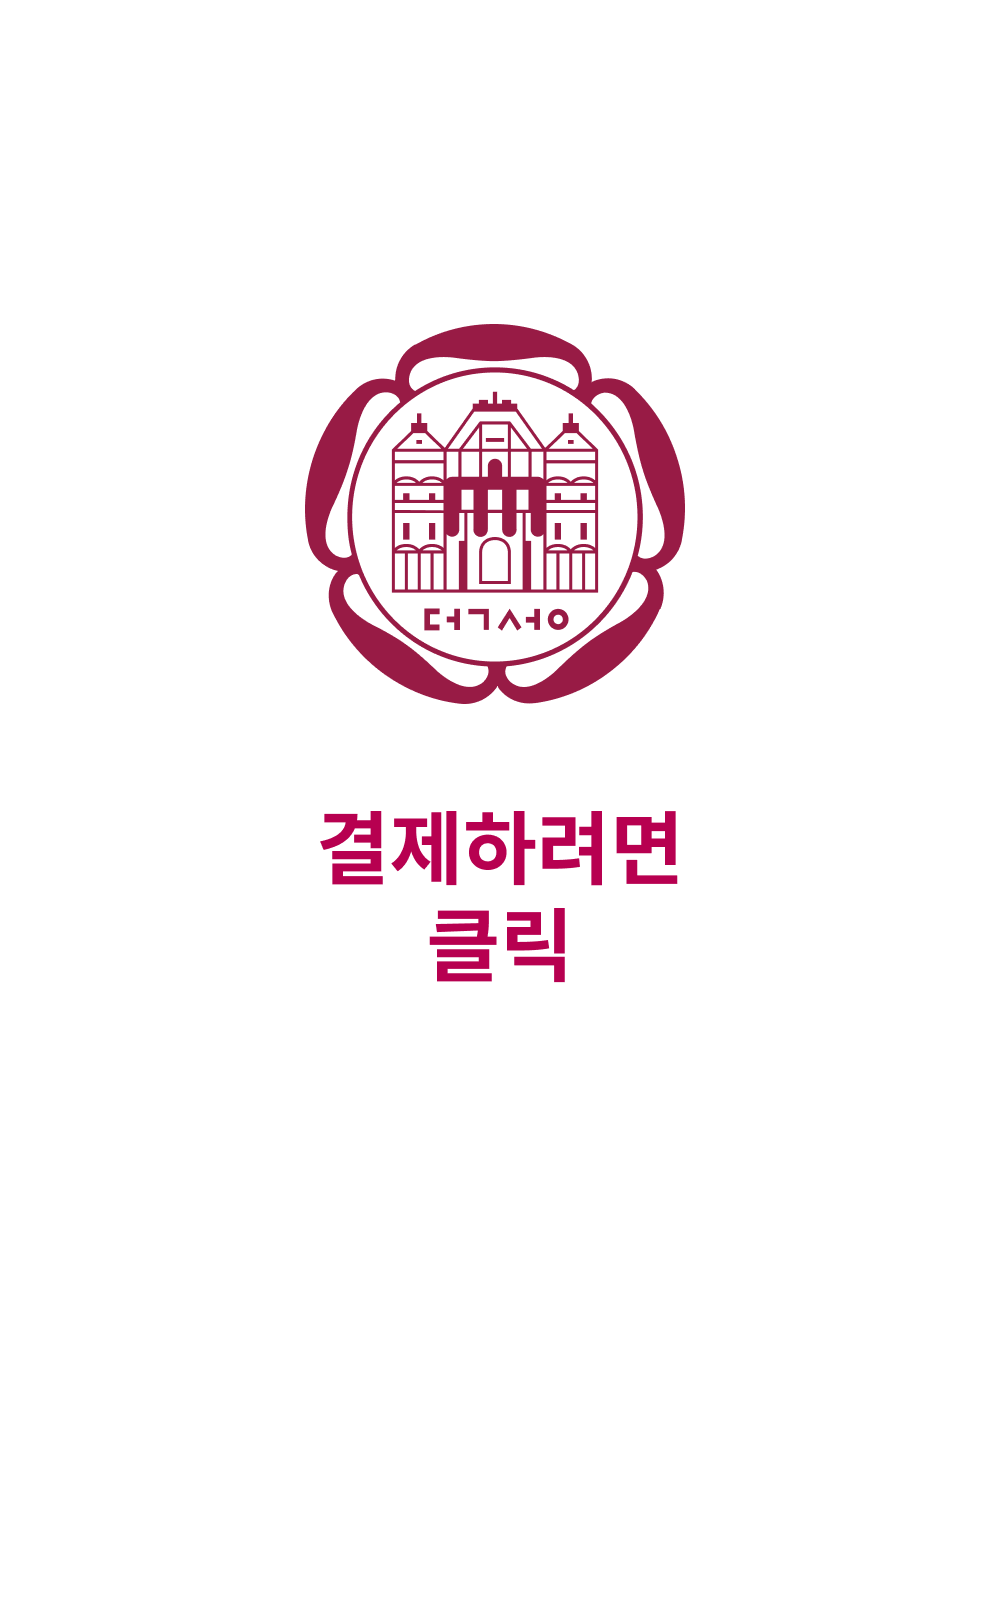
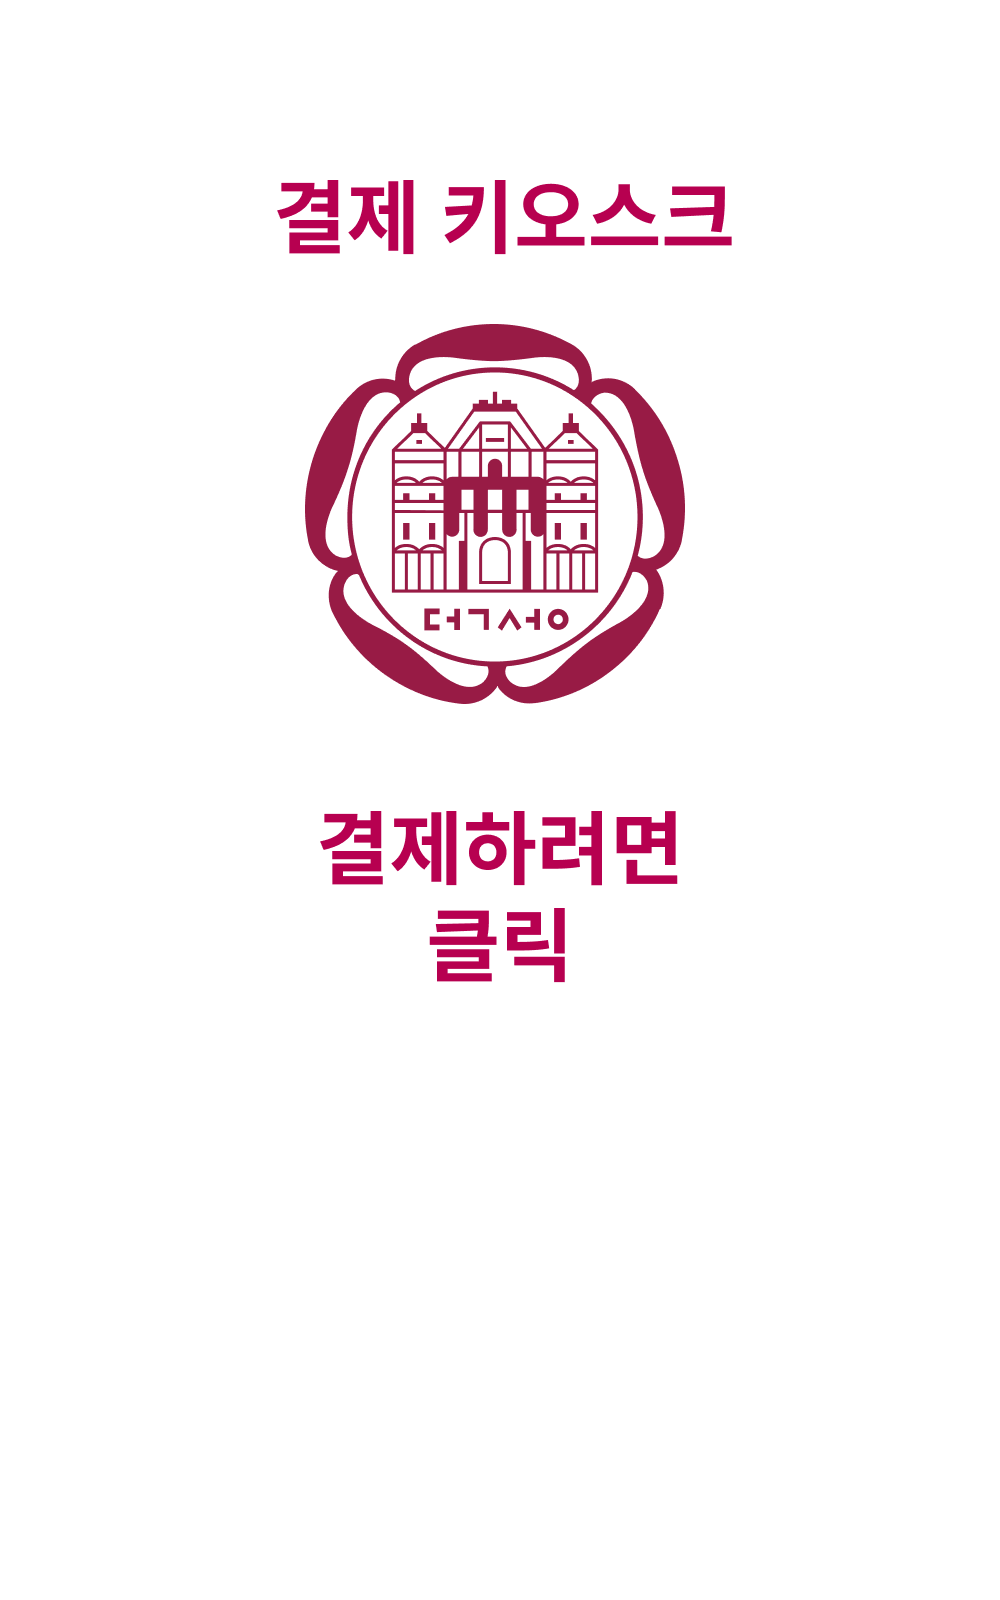
startScreen 키오스크 명칭 추가 & 원 글씨 추가

Changed region(s): [[0.279, 0.0938, 0.744, 0.1562]]

diff --git a/templates/billScreen.html b/templates/billScreen.html
@@ -21,14 +21,14 @@
                     <center>{{ item.quantity }}</center>
                 </div>
                 <div class="price1">
-                    {{ item.price }}
+                    {{ item.price }}원
                 </div>
             </div>
             {% endfor %}
             <div class="h-split"></div>
             <div class="totalprice">
                 <div class="totalprice_title" style="float: left";><b>주문합계</b></div>
-                <div class="totalprice_price" style="float: right;"><b>{{ total }}</b></div>
+                <div class="totalprice_price" style="float: right;"><b>{{ total }}원</b></div>
                 <div style="clear: both;"></div>
             </div>
         </div>

diff --git a/templates/paymentScreen.html b/templates/paymentScreen.html
@@ -22,7 +22,7 @@
     </div>
 
     <div class="totalprice">
-        <b>{{ total }}</b>
+        <b>{{ total }}원</b>
     </div>
 
     <!-- "다음으로" 버튼 -->
